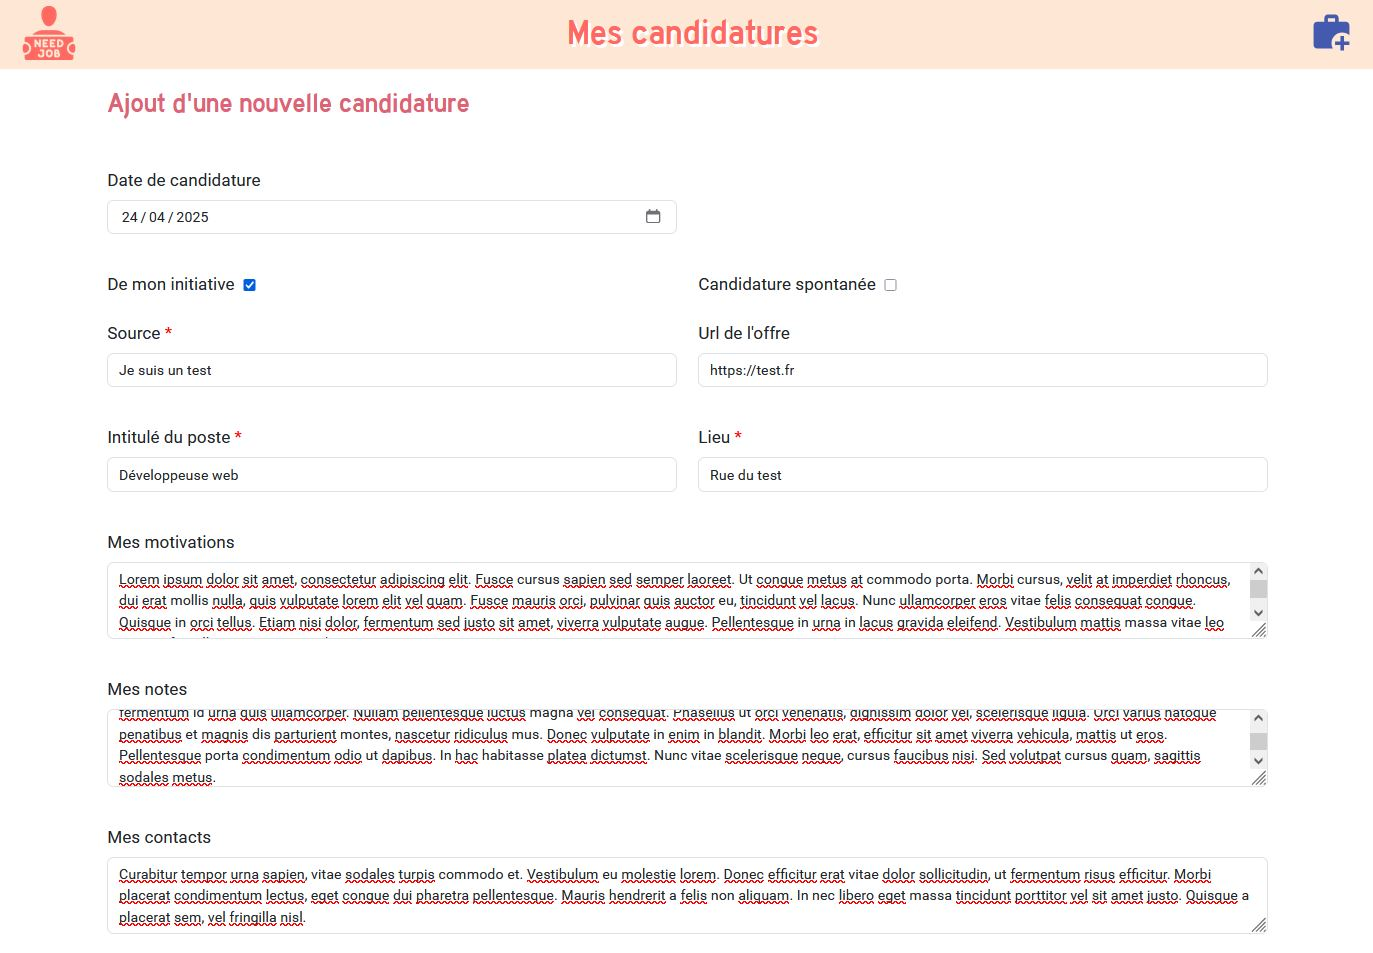
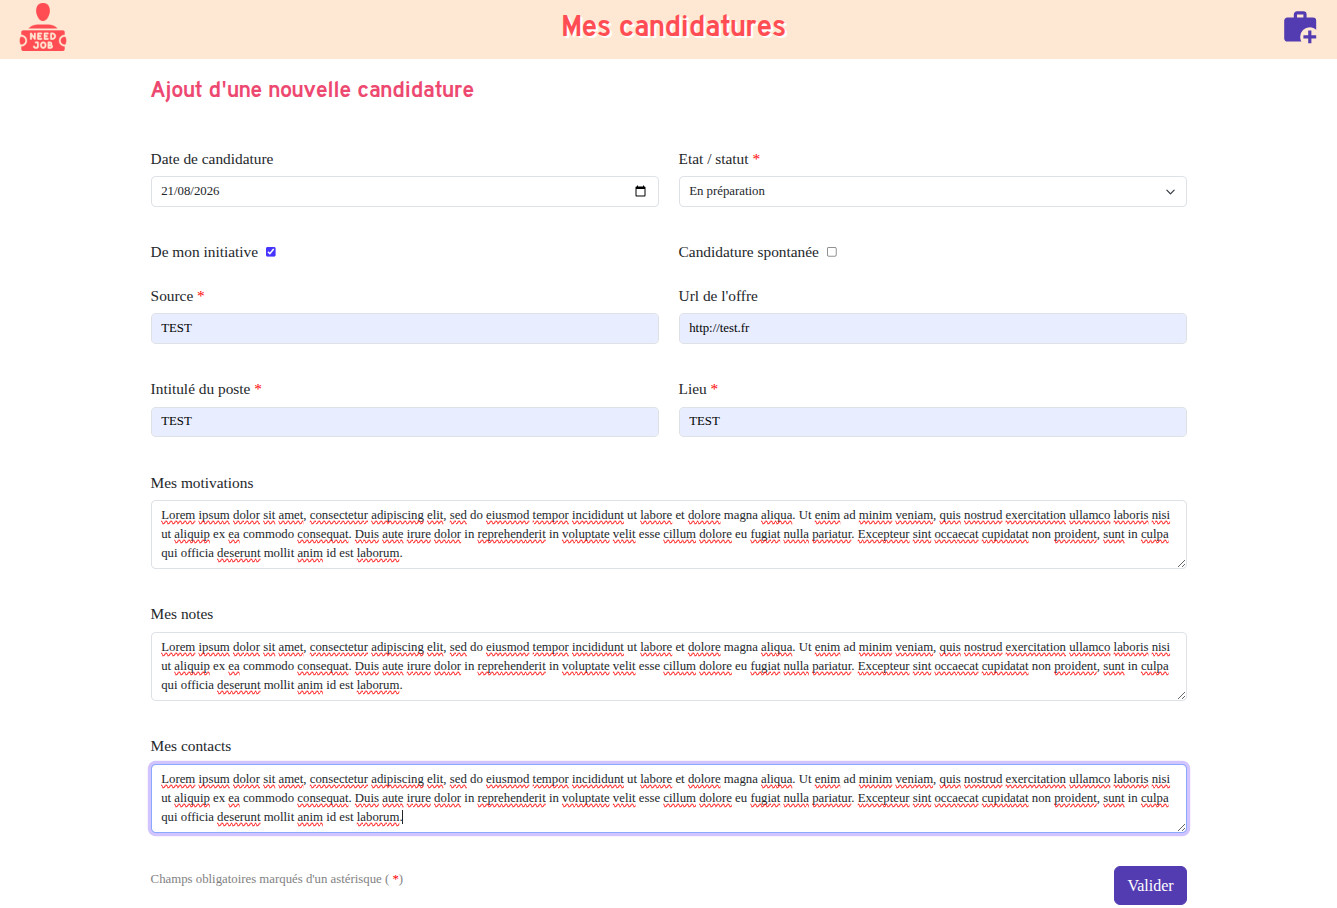
MAJ DU FICHIER README
Ajout d'une nouvelle capture d'écran et màj des anciennes pour visualiser le mode minimaliste, le champ d'import par fichier ainsi que la prise en compte du statut lors de l'ajout d'une candidature

diff --git a/README.md b/README.md
@@ -1,10 +1,10 @@
 # 🚀👀 Application front-end pour gérer mes candidatures 👀🚀
 
-Commençant à accumuler les candidatures pour un emploi dans le développement web .NET, j'ai fini par me dire : "Hey ! Pourquoi ne pas développer ma propre application pour gérer mes candidatures, tout en apprenant React.js et TypeScript ?".
+Commençant à accumuler les candidatures lors de ma recherche d'emploi, j'ai fini par me dire : "Hey ! Pourquoi ne pas développer ma propre application pour gérer mes candidatures, tout en apprenant React.js et TypeScript ?".
 
-Pour le moment, l'application se contente de gérer toutes les candidatures présentes dans la base de données.
+A ce stade, l'application permet de gérer toutes les candidatures présentes dans la base de données (de type SQL Server), sans notion d'utilisateur. Il est possible d'importer un ensemble de candidatures à partir d'un fichier au format .xlsx.
 
-Par la suite je vais ajouter la gestion de comptes utilisateurs.
+La gestion de comptes utilisateurs sera ajoutée plus tard.
 
 ---
 
@@ -18,6 +18,8 @@ Par la suite je vais ajouter la gestion de comptes utilisateurs.
 ## 2. Quelques captures d'écran :) 👍
 
 ![](assets/screenshots/Home_with_job_applications.JPG)
+
+![](assets/screenshots/Home_with_minimalist_job_applications.JPG)
 
 ![](assets/screenshots/Add_new_job_application.JPG)
 
